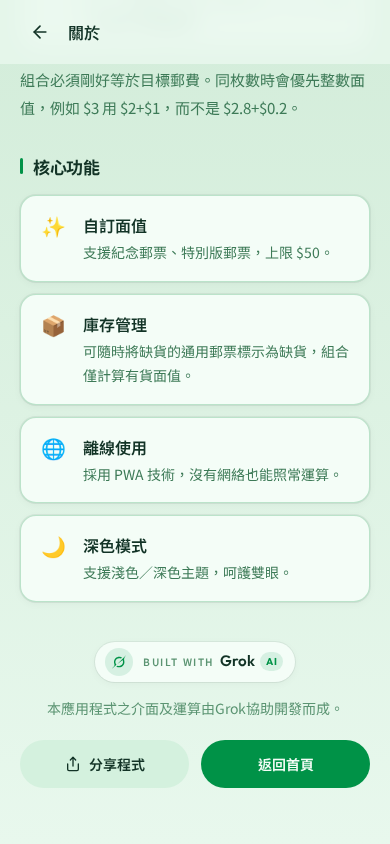
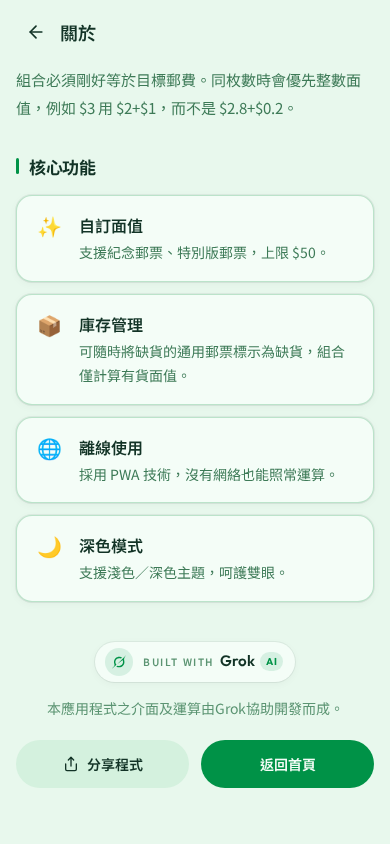
Export from Grok

diff --git a/src/components/about-page.tsx b/src/components/about-page.tsx
@@ -37,7 +37,7 @@ export function AboutPage() {
 
   return (
     <div className="relative mx-auto flex w-full max-w-lg flex-col">
-      <header className="sticky top-0 z-10 flex items-center gap-1 bg-bg/90 px-4 py-3 backdrop-blur-md sm:px-6">
+      <header className="sticky top-0 z-10 flex items-center gap-1 bg-bg px-4 py-3 sm:px-6">
         <Link
           to="/"
           aria-label="返回計數機"
@@ -48,7 +48,7 @@ export function AboutPage() {
         <h1 className="flex h-10 items-center text-lg leading-none font-semibold tracking-tight text-ink">關於</h1>
       </header>
 
-      <div className="flex flex-col px-5 pt-1 pb-4 sm:px-8 sm:pb-6">
+      <div className="flex flex-col px-4 pt-1 pb-4 sm:px-6 sm:pb-6">
 
       <section className="stagger-in mt-1 overflow-visible text-center">
         <HeroArt />

diff --git a/github-pages/index.html b/github-pages/index.html
@@ -124,8 +124,7 @@
     .wrap.settings, .wrap.about { overflow: hidden; padding-bottom: 0; }
     .page-body { flex: 1 1 0; min-height: 0; overflow: auto; padding-bottom: 2rem; -webkit-overflow-scrolling: touch; }
     .wrap.settings .top, .wrap.about .top { z-index: 10; background: var(--bg); }
-    .wrap.about .top { background: color-mix(in oklab, var(--primary) 22%, var(--bg)); }
-    .wrap.about { gap: 0.5rem; padding: 1rem 1.25rem 0; background: linear-gradient(180deg, color-mix(in oklab, var(--primary) 22%, var(--bg)) 0%, var(--bg) 42%); }
+    .wrap.about { gap: 0.5rem; padding: 1rem 1.25rem 0; }
     .wrap.about .page-body { padding-bottom: 2.5rem; }
     .wrap.about .top { gap: 0.5rem; }
     .wrap.about .top h1 { margin: 0; }

diff --git a/index.html b/index.html
@@ -124,8 +124,7 @@
     .wrap.settings, .wrap.about { overflow: hidden; padding-bottom: 0; }
     .page-body { flex: 1 1 0; min-height: 0; overflow: auto; padding-bottom: 2rem; -webkit-overflow-scrolling: touch; }
     .wrap.settings .top, .wrap.about .top { z-index: 10; background: var(--bg); }
-    .wrap.about .top { background: color-mix(in oklab, var(--primary) 22%, var(--bg)); }
-    .wrap.about { gap: 0.5rem; padding: 1rem 1.25rem 0; background: linear-gradient(180deg, color-mix(in oklab, var(--primary) 22%, var(--bg)) 0%, var(--bg) 42%); }
+    .wrap.about { gap: 0.5rem; padding: 1rem 1.25rem 0; }
     .wrap.about .page-body { padding-bottom: 2.5rem; }
     .wrap.about .top { gap: 0.5rem; }
     .wrap.about .top h1 { margin: 0; }

diff --git a/public/app.html b/public/app.html
@@ -124,8 +124,7 @@
     .wrap.settings, .wrap.about { overflow: hidden; padding-bottom: 0; }
     .page-body { flex: 1 1 0; min-height: 0; overflow: auto; padding-bottom: 2rem; -webkit-overflow-scrolling: touch; }
     .wrap.settings .top, .wrap.about .top { z-index: 10; background: var(--bg); }
-    .wrap.about .top { background: color-mix(in oklab, var(--primary) 22%, var(--bg)); }
-    .wrap.about { gap: 0.5rem; padding: 1rem 1.25rem 0; background: linear-gradient(180deg, color-mix(in oklab, var(--primary) 22%, var(--bg)) 0%, var(--bg) 42%); }
+    .wrap.about { gap: 0.5rem; padding: 1rem 1.25rem 0; }
     .wrap.about .page-body { padding-bottom: 2.5rem; }
     .wrap.about .top { gap: 0.5rem; }
     .wrap.about .top h1 { margin: 0; }

diff --git a/stamp-calculator.html b/stamp-calculator.html
@@ -124,8 +124,7 @@
     .wrap.settings, .wrap.about { overflow: hidden; padding-bottom: 0; }
     .page-body { flex: 1 1 0; min-height: 0; overflow: auto; padding-bottom: 2rem; -webkit-overflow-scrolling: touch; }
     .wrap.settings .top, .wrap.about .top { z-index: 10; background: var(--bg); }
-    .wrap.about .top { background: color-mix(in oklab, var(--primary) 22%, var(--bg)); }
-    .wrap.about { gap: 0.5rem; padding: 1rem 1.25rem 0; background: linear-gradient(180deg, color-mix(in oklab, var(--primary) 22%, var(--bg)) 0%, var(--bg) 42%); }
+    .wrap.about { gap: 0.5rem; padding: 1rem 1.25rem 0; }
     .wrap.about .page-body { padding-bottom: 2.5rem; }
     .wrap.about .top { gap: 0.5rem; }
     .wrap.about .top h1 { margin: 0; }

diff --git a/src/components/settings-page.tsx b/src/components/settings-page.tsx
@@ -114,7 +114,7 @@ export function SettingsPage() {
 
   return (
     <div className="relative mx-auto flex w-full max-w-lg flex-col">
-      <header className="sticky top-0 z-10 flex items-center gap-1 bg-bg/90 px-4 py-3 backdrop-blur-md sm:px-6">
+      <header className="sticky top-0 z-10 flex items-center gap-1 bg-bg px-4 py-3 sm:px-6">
         <Link
           to="/"
           aria-label="返回計數機"

diff --git a/src/routes/about.tsx b/src/routes/about.tsx
@@ -10,7 +10,7 @@ export const Route = createFileRoute("/about")({
 
 function About() {
   return (
-    <main className="min-h-dvh bg-linear-to-b from-primary/22 to-bg">
+    <main className="min-h-dvh bg-bg">
       <AboutPage />
     </main>
   );

diff --git a/github-pages/sw.js b/github-pages/sw.js
@@ -1,4 +1,4 @@
-const CACHE = "stamp-calc-v42";
+const CACHE = "stamp-calc-v44";
 
 self.addEventListener("install", (event) => {
   event.waitUntil(self.skipWaiting());

diff --git a/public/sw.js b/public/sw.js
@@ -1,4 +1,4 @@
-const CACHE = "stamp-calc-v42";
+const CACHE = "stamp-calc-v44";
 
 self.addEventListener("install", (event) => {
   event.waitUntil(self.skipWaiting());

diff --git a/sw.js b/sw.js
@@ -1,4 +1,4 @@
-const CACHE = "stamp-calc-v42";
+const CACHE = "stamp-calc-v44";
 
 self.addEventListener("install", (event) => {
   event.waitUntil(self.skipWaiting());
